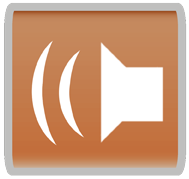
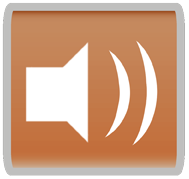
More sounds

diff --git a/Working Directory/js/Menu.js b/Working Directory/js/Menu.js
@@ -22,6 +22,7 @@ var imgTStashBtn = new Image();
 var imgTExitBtn = new Image();
 var imgTInfo = new Image();
 var imgTSnd = new Image();
+var imgTSndOff = new Image();
 var imgLeftArrow = new Image();
 var imgRightArrow = new Image();
 
@@ -68,7 +69,7 @@ Menu.prototype.reset = function() {
 	this.lvl1X = 1152;
 	this.lvlTutX=0;
     this.drawExit = false;
-    if(!window.mobileAndTabletcheck()){
+    if(!window.mobileAndTabletcheck()&&allowSound){
 		soundManager.playSoundLoop(titleMusic,"menuBack");
 	}
 	this.setBtn();
@@ -82,9 +83,9 @@ window.mobileAndTabletcheck = function() {
 }
 
 Menu.prototype.setBtn = function(){
-	this.titleBtnPos = [[970,240,"levelSelect",imgTPlayBtn,370,277],[965,380,"multiplayer",imgTMultBtn,480,153],
-						[965,480,"stash",imgTStashBtn,480,140],[965,575,"Exit",imgTExitBtn,480,110]];
-	this.titleBtnPos2 = [[250,164,imgLoginBtn,290,110],[95,570,imgTInfo,190,180],[250,570,imgTSnd,190,180]];
+	this.titleBtnPos = [[970,240,"levelSelect",imgTPlayBtn,220,160],[970,375,"multiplayer",imgTMultBtn,300,90],
+						[970,475,"stash",imgTStashBtn,300,90],[975,575,"Exit",imgTExitBtn,300,66]];
+	this.titleBtnPos2 = [[250,164,"login",imgLoginBtn,250,80],[85,560,"info",imgTInfo,100,100],[235,560,"sound",imgTSnd,100,100]];
 	this.charArrowPos = [[270,560,imgLeftArrow],[500,560,imgRightArrow]];
 }
 
@@ -121,7 +122,7 @@ Menu.prototype.update = function() {
 	}
 	var temp = this.returnVals;
 	if(this.returnVals[0] ==="gameplay"){
-		if(!window.mobileAndTabletcheck()){
+		if(!window.mobileAndTabletcheck()&&allowSound){
 			soundManager.stopSound("menuBack");
 		}
 	}
@@ -180,8 +181,8 @@ console.log(e.clientX ,e.clientY);
 		}
 		else {
 			for(var i =0; i< this.titleBtnPos.length; ++i){
-				if((mX > this.titleBtnPos[i][0]-this.titleBtnPos[i][4]/2) &&(this.titleBtnPos[i][4]/2+this.titleBtnPos[i][0] >mX) &&
-					(this.titleBtnPos[i][1]-this.titleBtnPos[i][5]/2 <mY)&&(this.titleBtnPos[i][5]/2+this.titleBtnPos[i][1] >mY)){
+				if((mX > this.titleBtnPos[i][0]-(this.titleBtnPos[i][4]/2)) &&((this.titleBtnPos[i][4]/2)+this.titleBtnPos[i][0] >mX) &&
+					(mY>this.titleBtnPos[i][1]-(this.titleBtnPos[i][5]/2))&&((this.titleBtnPos[i][5]/2)+this.titleBtnPos[i][1] >mY)){
 					if(i === 3){
 						this.drawExit = true;
 					}
@@ -192,19 +193,39 @@ console.log(e.clientX ,e.clientY);
 					}
 				}
 			}
-			if(e.clientX >  this.titleBtnPos2[0][0] - this.titleBtnPos2[0][3]/2  && e.clientX <this.titleBtnPos2[0][0]+this.titleBtnPos2[0][0]/2
-			&&e.clientY>this.titleBtnPos2[0][1] - this.titleBtnPos2[0][1]/2&&e.clientY<this.titleBtnPos2[0][1] +this.titleBtnPos2[0][1]/2){//770,190,955,375
-				var iframe = document.createElement('iframe');
-				iframe.style.visibility="visible";
-				iframe.style.position = "absolute";
-				iframe.style.left="30px";
-				iframe.style.top="30px";
-				iframe.src = "login.html";
-				document.body.appendChild(iframe);
-				var can = document.getElementById('canvasId');
-				can.style.visibility = "hidden";
-			}
-		}
+			for(var i =0; i< this.titleBtnPos2.length; ++i){
+				if((mX > this.titleBtnPos2[i][0]-(this.titleBtnPos2[i][4]/2)) &&((this.titleBtnPos2[i][4]/2)+this.titleBtnPos2[i][0] >mX) &&
+					(mY>this.titleBtnPos2[i][1]-(this.titleBtnPos2[i][5]/2))&&((this.titleBtnPos2[i][5]/2)+this.titleBtnPos2[i][1] >mY)){
+					if(this.titleBtnPos2[i][2]==="login"){
+						var iframe = document.createElement('iframe');
+						iframe.style.visibility="visible";
+						iframe.style.position = "absolute";
+						iframe.style.left="30px";
+						iframe.style.top="30px";
+						iframe.src = "login.html";
+						document.body.appendChild(iframe);
+						var can = document.getElementById('canvasId');
+						can.style.visibility = "hidden";
+					}
+					else if(this.titleBtnPos2[i][2]==="sound"){
+						if(allowSound){
+							if(!window.mobileAndTabletcheck()){
+								soundManager.stopSound("menuBack");
+							}
+							allowSound = false;
+							this.titleBtnPos2[2][3] = imgTSndOff;
+						}
+						else if(!allowSound){
+							allowSound = true;
+							this.titleBtnPos2[2][3] = imgTSnd;
+							if(!window.mobileAndTabletcheck()){
+								soundManager.playSoundLoop(titleMusic,"menuBack");
+							}
+						}
+					}
+				}//if a button selected
+			}//for buttons
+		}//draw exit
 	}
 	else if(this.scene=== "levelSelect" && (_name==="player1"|| !multiplayer)){
 		console.log(e.clientX ,e.clientY);
@@ -450,12 +471,12 @@ Menu.prototype.draw = function(scene){
 		ctx.drawImage(imgTitleScreen, 0,0,1152,648);
 		//ctx.drawImage(imgLoginBtn,100,100,289,109);
 		for(var i =0; i< this.titleBtnPos.length; ++i){
-			ctx.drawImage(this.titleBtnPos[i][3],this.titleBtnPos[i][0]-(this.titleBtnPos[i][4]/1.7)/2,
-				this.titleBtnPos[i][1] -(this.titleBtnPos[i][5]/1.7)/2 ,this.titleBtnPos[i][4]/1.7,this.titleBtnPos[i][5]/1.7);
+			ctx.drawImage(this.titleBtnPos[i][3],(this.titleBtnPos[i][0]-this.titleBtnPos[i][4]/2),
+				this.titleBtnPos[i][1] -this.titleBtnPos[i][5]/2 ,this.titleBtnPos[i][4],this.titleBtnPos[i][5]);
 		}
 		for(var i =0; i< this.titleBtnPos2.length; ++i){
-			ctx.drawImage(this.titleBtnPos2[i][2],this.titleBtnPos2[i][0]-(this.titleBtnPos2[i][3]/1.7)/2,
-				this.titleBtnPos2[i][1] -(this.titleBtnPos2[i][4]/1.7)/2 ,this.titleBtnPos2[i][3]/1.7,this.titleBtnPos2[i][4]/1.7);
+			ctx.drawImage(this.titleBtnPos2[i][3],this.titleBtnPos2[i][0]-this.titleBtnPos2[i][4]/2,
+				this.titleBtnPos2[i][1] -this.titleBtnPos2[i][5]/2 ,this.titleBtnPos2[i][4],this.titleBtnPos2[i][5]);
 		}
 		if(this.drawExit){
 			ctx.drawImage(imgExitPrompt, 0,0,1152,648);
@@ -491,7 +512,7 @@ Menu.prototype.draw = function(scene){
 		shop.draw();
 	}
 	else if(scene ==="custom"){
-		ctx.drawImage(imgLvlSelBack,-300,0,1152,648);
+		ctx.drawImage(imgCustomBack,210,0,1852,648);
 		ctx.drawImage(imgChar1,this.char1X,50,340,600);
 		ctx.drawImage(imgChar2,this.char1X+400,50,340,600);
 		ctx.drawImage(imgChar3,this.char1X+800,50,340,600);

diff --git a/Working Directory/js/CollisionManager.js b/Working Directory/js/CollisionManager.js
@@ -3,6 +3,7 @@
 var CollisionManager=function ()
 {
 	this.bossColTimer=0;
+	this.currPickup=0;
 };
 
 
@@ -172,7 +173,7 @@ CollisionManager.prototype.obstacleCol = function(enemyManager,player,lvlManager
 }
 
 CollisionManager.prototype.bossCol = function(amount){
-	player.xVel = 20;
+	
 	if(this.bossColTimer>100){
 		player.health-=amount;
 		this.bossColTimer =0;
@@ -185,6 +186,7 @@ CollisionManager.prototype.playerVsBoss = function(enemyManager,player){
 	if(this.circleOnCircle(player.radius,player.x,player.y,enemyManager.boss1.height,enemyManager.boss1.x,enemyManager.boss1.y)&&
 		enemyManager.boss1.state ==="attack"){
 		this.bossCol(15);
+	player.xVel = 20;
 	}
 	this.bossColTimer++;
 	for(var i = 0; i<enemyManager.boss1.hitAreas.length; ++i){
@@ -252,6 +254,11 @@ CollisionManager.prototype.collisionCall = function(enemyManager,player,lvlManag
 	for(var i =0; i < pickUps.length; ++i){
 		if(this.circleOnCircle(player.radius, player.x,player.y,pickUps[i].radius,pickUps[i].x,pickUps[i].y)&&
 			pickUps[i].alive){
+			soundManager.playSound(pickUpSndArr[this.currPickup]);
+			this.currPickup++;
+			if(this.currPickup>2){
+				this.currPickup=0;
+			}
 			pickUps[i].alive = false;
 			if(pickUps[i].type ==="health"){
 				player.health+=20;
@@ -261,6 +268,12 @@ CollisionManager.prototype.collisionCall = function(enemyManager,player,lvlManag
 			}
 			else{
 				player.setPickup(pickUps[i].type);
+			}
+		}
+		if(multiplayer){
+			if(this.circleOnCircle(player2.radius, player2.x,player2.y,pickUps[i].radius,pickUps[i].x,pickUps[i].y)&&
+			pickUps[i].alive){
+				pickUps[i].alive = false;
 			}
 		}
 	//	console.log(pickUps[i]);

diff --git a/Working Directory/js/Client.js b/Working Directory/js/Client.js
@@ -32,7 +32,7 @@ this.ws.onmessage = function(evt) {that.handleMessage(evt); };
 
 this.ws.onclose = function(evt) { console.log("Multi Connection close"); game.goMenu = true;};
 
-this.ws.onopen = function(evt) { console.log('Milti open connection'); };    
+this.ws.onopen = function(evt) { console.log('Milti open connection');};    
 
 this.ws2.onmessage = function(evt) {that.handleMessage(evt); };
 
@@ -77,6 +77,13 @@ Client.prototype.checkLogin = function(name,pass){
 	message.data = [name,pass];
 	var mess = JSON.stringify(message);
 	this.ws2.send(mess);
+}
+
+Client.prototype.writeError = function(error){
+	message.type = "error";
+	message.data = error;
+	var mess = JSON.stringify(message);
+	this.ws.send(mess);
 }
 
 Client.prototype.updateProfile = function(name,pass,money,shield,dmg,bomb,health,reload,radar){

diff --git a/Working Directory/js/Pickup.js b/Working Directory/js/Pickup.js
@@ -1,8 +1,14 @@
 var imgRadarPUp = new Image();
 var imgbombP = new Image();
 var imgCoin = new Image();
+var pickUpSnd1 = null;
+var pickUpSnd2 = null;
+var pickUpSnd3 = null;
+
+var pickUpSndArr =[];
 
 var Pickup=function (){
+	pickUpSndArr = [pickUpSnd1,pickUpSnd2,pickUpSnd3];
 	this.type ="Null"; 
 	this.x = 0;
 	this.y = 0;
@@ -26,7 +32,6 @@ Pickup.prototype.update = function(){
 		this.alive = false;
 	}
 }
-
 
 Pickup.prototype.draw = function(){
 	if(this.alive){

diff --git a/Working Directory/js/EnemyManager.js b/Working Directory/js/EnemyManager.js
@@ -90,7 +90,7 @@ EnemyManager.prototype.hearShot = function(px,py){
 
 EnemyManager.prototype.setUp = function(){
 	if(this.currentLvl === "level1"){
-		this.totalSwarms = 1;//7
+		this.totalSwarms = 2;//9
 	}
 	else if(this.currentLvl === "level2"){
 		this.totalSwarms = 20;
